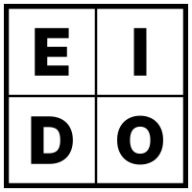
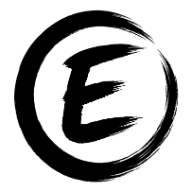
파비콘: 원 + 붓글씨 E (4번 다듬은 판)

diff --git a/index.html b/index.html
@@ -3,7 +3,7 @@
   <head>
     <meta charset="UTF-8" />
     <meta name="viewport" content="width=device-width, initial-scale=1.0" />
-    <!-- EIDO 아이콘 (29CM 스타일 EI/DO 격자, 2026-10-29) — 원본: Eido/Brand/icon/29cm-style/favicon -->
+    <!-- EIDO 아이콘 (원 + 붓글씨 E 다듬은 판, 2026-10-29) — 원본: Eido/Brand/icon/4-enso-E-refined -->
     <link rel="icon" href="/favicon.ico" sizes="any" />
     <link rel="icon" type="image/png" sizes="32x32" href="/favicon-32.png" />
     <link rel="apple-touch-icon" href="/apple-touch-icon.png" />
